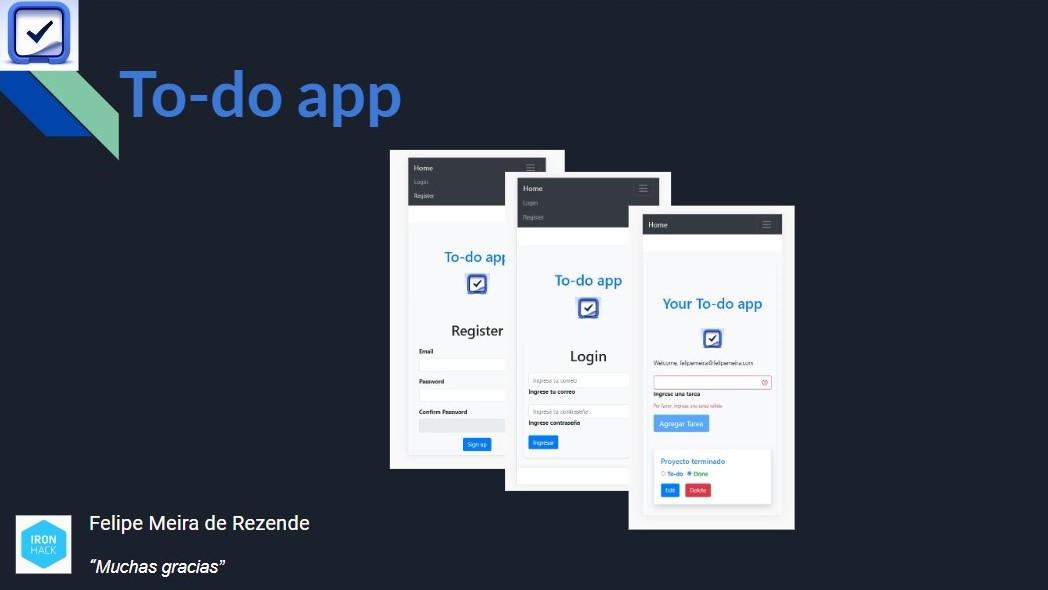
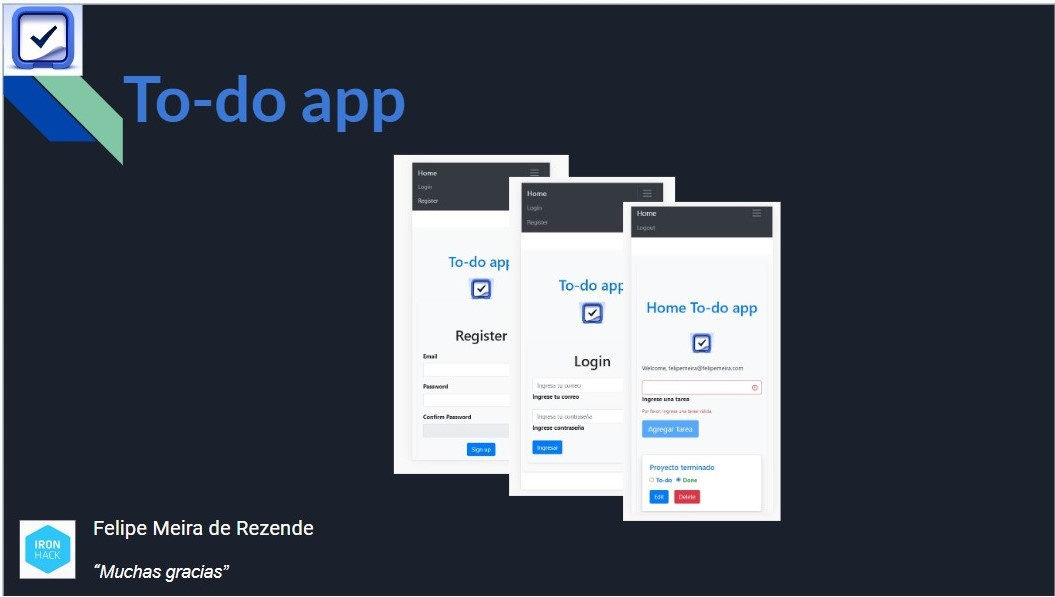
Projectdone

diff --git a/src/views/HomeView.vue b/src/views/HomeView.vue
@@ -1,6 +1,6 @@
 <template>
   <div class="container py-5">
-    <h1 class="my-5 text-center text-primary">Your To-do app</h1>
+    <h1 class="my-5 text-center text-primary">Home To-do app</h1>
     <img class="img-fluid mx-auto d-block mb-4" src="../images/box.1.jpg" alt="Vue logo" style="max-width: 20%">
     <p class="mb-4">Welcome, {{ userStore.user?.email }}</p>
 
